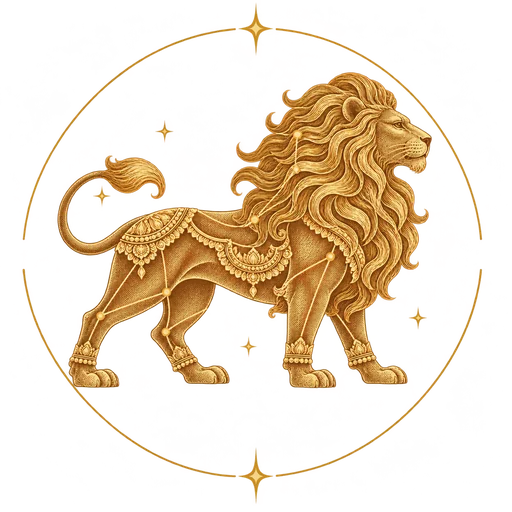
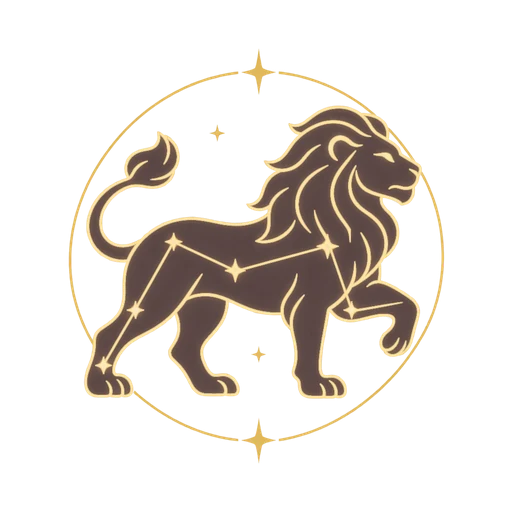
Make the twelve rashi pictures one matching set
Simha, Makara, Kumbha and Meena were gold carvings beside eight dark figures,
and Kanya's ring was an oval. All five come from a new set of dark figures.
build_assets.py adds their glow and gives all twelve the same round, centred
ring, so the website and the PDF covers match.

diff --git a/design/tools/build_assets.py b/design/tools/build_assets.py
@@ -6,7 +6,7 @@ Needs Pillow and numpy. The originals are never modified.
 from pathlib import Path
 
 import numpy as np
-from PIL import Image, ImageDraw
+from PIL import Image, ImageDraw, ImageFilter
 
 ROOT = Path(__file__).resolve().parents[1]
 SRC, WEB = ROOT / "assets" / "source", ROOT / "assets" / "web"
@@ -18,15 +18,35 @@ RASHI = {
     "02-vrishabha": "01_first_set/03_vrishabha_taurus.png",
     "03-mithuna": "01_first_set/04_mithuna_gemini.png",
     "04-kataka": "01_first_set/05_karka_cancer.png",
-    "05-simha": "03_report_set/rashi-05-simha.png",
-    "06-kanya": "01_first_set/06_kanya_virgo.png",
+    "05-simha": "05_uniform_set/rashi-05-simha.png",
+    "06-kanya": "05_uniform_set/rashi-06-kanya.png",
     "07-tula": "01_first_set/07_tula_libra.png",
     "08-vrischika": "01_first_set/08_vrischika_scorpio.png",
     "09-dhanu": "01_first_set/09_dhanu_sagittarius.png",
-    "10-makara": "04_remade_set/rashi-10-makara.png",
-    "11-kumbha": "04_remade_set/rashi-11-kumbha.png",
-    "12-meena": "04_remade_set/rashi-12-meena.png",
+    "10-makara": "05_uniform_set/rashi-10-makara.png",
+    "11-kumbha": "05_uniform_set/rashi-11-kumbha.png",
+    "12-meena": "05_uniform_set/rashi-12-meena.png",
 }
+
+# Each picture's thin gold ring, as fractions of the picture: centre x, centre y, half width, half
+# height. Measured on the originals (the stars on the ring give its top and bottom). The rings were
+# drawn at different sizes, off centre and up to 7% oval, so a row of signs looked uneven.
+RINGS = {
+    "01-mesha": (0.4990, 0.4722, 0.3504, 0.3579),
+    "02-vrishabha": (0.4951, 0.4731, 0.3689, 0.3599),
+    "03-mithuna": (0.4980, 0.4863, 0.3500, 0.3711),
+    "04-kataka": (0.4951, 0.4805, 0.3854, 0.3955),
+    "05-simha": (0.4941, 0.4995, 0.3537, 0.3530),
+    "06-kanya": (0.4893, 0.5039, 0.3360, 0.3477),
+    "07-tula": (0.4941, 0.4829, 0.3526, 0.3687),
+    "08-vrischika": (0.4902, 0.4839, 0.3521, 0.3765),
+    "09-dhanu": (0.4922, 0.4868, 0.3676, 0.3784),
+    "10-makara": (0.4941, 0.5005, 0.3332, 0.3394),
+    "11-kumbha": (0.4922, 0.5068, 0.3616, 0.3730),
+    "12-meena": (0.4951, 0.4897, 0.3287, 0.3481),
+}
+RASHI_SIZE = 512
+RING_RADIUS = 184  # on the 512 x 512 picture: the ring and its stars fit, with a margin
 
 # Panels inside the composite image, as (left, top, right, bottom), inside the white divider lines.
 COMPOSITE = "02_remaining_set/07_composite_all_remaining_visuals.png"
@@ -51,11 +71,70 @@ def hero():
     )
 
 
+def blurred(mask, sigma):
+    """A 0 to 1 mask, softened."""
+    im = Image.fromarray((np.clip(mask, 0, 1) * 255).astype(np.uint8))
+    return np.asarray(im.filter(ImageFilter.GaussianBlur(sigma))).astype(np.float32) / 255
+
+
+def glow(im):
+    """Light a flat picture of the fifth set like the first set: pale gold lines that glow inside
+    the dark figure, white-hot stars at its joints, and a paler ring."""
+    px = np.asarray(im).astype(np.float32)
+    rgb, alpha = px[..., :3], px[..., 3] / 255
+    lum = rgb @ np.array([0.299, 0.587, 0.114], dtype=np.float32)
+    gold = np.clip((lum - 105) / 60, 0, 1) * alpha
+
+    # The figure: its dark fill, without hairlines, grown to take in the lines drawn on it.
+    dark = Image.fromarray((((lum < 105) & (alpha > 0.8)) * 255).astype(np.uint8))
+    fill = dark.filter(ImageFilter.MinFilter(3)).filter(ImageFilter.MaxFilter(13))
+    figure = blurred(np.asarray(fill) / 255, 1.5) * (alpha > 0)
+
+    # Lines on the figure: a touch wider and paler, with amber light around them.
+    wide = Image.fromarray((gold * 255).astype(np.uint8)).filter(ImageFilter.MaxFilter(3))
+    line = np.maximum(gold, 0.75 * np.asarray(wide) / 255 * figure)
+    light = figure * np.clip(0.75 * blurred(gold, 5) + 0.55 * blurred(gold, 14), 0, 1)
+    # Stars at the joints are the only gold thicker than a line.
+    core = Image.fromarray((gold * figure * 255).astype(np.uint8)).filter(ImageFilter.MinFilter(7))
+    core = (np.asarray(core) > 90).astype(np.float32)
+    hot = figure * np.clip(1.6 * blurred(core, 3.5), 0, 1)
+    halo = figure * np.clip(3.2 * blurred(core, 13), 0, 1)
+
+    def screen(base, colour, amount):
+        add = np.array(colour, dtype=np.float32) * amount[..., None]
+        return 255 - (255 - base) * (255 - add) / 255
+
+    def mix(base, colour, amount):
+        return base + (np.array(colour, dtype=np.float32) - base) * amount[..., None]
+
+    out = screen(rgb, (214, 150, 72), np.clip(light * 0.62 + halo * 0.55, 0, 1))
+    out = mix(out, (255, 226, 160), line * figure * 0.9)
+    out = mix(out, (255, 250, 232), hot)
+    out = mix(out, (236, 208, 146), gold * (1 - figure) * 0.6)
+    return Image.fromarray(
+        np.dstack([np.clip(out, 0, 255), alpha * 255]).round().astype(np.uint8), "RGBA"
+    )
+
+
 def rashi():
+    """The twelve signs, scaled and centred so every ring is the same circle."""
     for name, src in RASHI.items():
         im = Image.open(SRC / src).convert("RGBA")
-        im = im.resize((512, 512), Image.LANCZOS)
-        im.save(WEB / f"rashi-{name}.webp", quality=88, method=6)
+        if src.startswith("05_uniform_set/"):
+            im = glow(im)
+        cx, cy, rx, ry = RINGS[name]
+        half = RASHI_SIZE / 2
+        # The part of the original that fills the picture. It can reach past the original's edge,
+        # where the new pixels are transparent.
+        w, h = im.width * rx * half / RING_RADIUS, im.height * ry * half / RING_RADIUS
+        box = (im.width * cx - w, im.height * cy - h, im.width * cx + w, im.height * cy + h)
+        pad = im.width // 2
+        canvas = Image.new("RGBA", (im.width + 2 * pad, im.height + 2 * pad))
+        canvas.paste(im, (pad, pad))
+        out = canvas.resize(
+            (RASHI_SIZE, RASHI_SIZE), Image.LANCZOS, box=tuple(edge + pad for edge in box)
+        )
+        out.save(WEB / f"rashi-{name}.webp", quality=88, method=6)
 
 
 def cards():

diff --git a/design/README.md b/design/README.md
@@ -33,7 +33,7 @@ The logo story, for an About page: the two rings are great circles of the sky. W
 | File | Used for | Made from |
 |---|---|---|
 | `hero-sky.jpg` (1672 x 941) | Home hero background, mobile home, share preview | `01_first_set/01_hero_night_sky.png` |
-| `rashi-NN-name.webp` (512 x 512, transparent) | Rashi row on the home page, lagna and rashi cards in results, the PDF report | The standalone rashi images in the sets |
+| `rashi-NN-name.webp` (512 x 512, transparent) | Rashi row on the home page, lagna and rashi cards in results, the PDF report | The standalone rashi images in the sets, by `build_assets.py`: every ring is the same circle, and the fifth set gets its glow |
 | `chapters/<name>.webp` (480 x 320, transparent) | The picture beside each AI reading chapter | `03_report_set` and `04_remade_set`, `chapter-*.png`, by `tools/build_report_art.py` |
 | `card-hadahan.jpg` (539 x 340) | Hadahan tool card on the home page | Cropped from the composite image |
 | `card-porondam.jpg` (661 x 376) | Porondam tool card on the home page | Cropped from the composite image |
@@ -51,7 +51,8 @@ The PDF report's own pictures are in `backend/app/reports/art/`, made by `tools/
 - **Eight pictures of the third set were made again** (`source/04_remade_set/`): they were soft, cut off, or had a lion painted into the chart cover. The scripts use the newer one. A few chapter pictures of the third set were enlarged from a grouped sheet; they are sharp at the sizes used.
 - **Makara is drawn as the Western sea-goat.** In Sri Lankan tradition the makara is a crocodile-like creature: for the astrologer to say.
 - **The two card pictures and the moon are low resolution.** They exist only as panels inside `02_remaining_set/07_composite_all_remaining_visuals.png`, so they were cropped from it. They are sharp at normal size but soft on high density screens. Standalone versions at 1200 x 800 (cards) and 1000 x 1000 (moon) would replace them.
-- **Kumbha, Makara and Meena** now come from the fourth set, to match the others. Their earlier versions stay in `source/`.
+- **Simha, Kanya, Makara, Kumbha and Meena** come from the fifth set (`source/05_uniform_set/`), made as dark figures like the other seven: four of them were gold carvings, and Kanya's ring was an oval. They arrived flat, so `build_assets.py` adds the glow. Their earlier versions stay in `source/`.
+- **Mesha's ring is faint and broken** in the original, so it looks lighter than the others on the light theme.
 - The two Kumbha and Meena pair images in `source/` are not used yet.
 
 ## Rebuilding

diff --git a/docs/22-report-images.md b/docs/22-report-images.md
@@ -73,6 +73,8 @@ One per chapter, at the top right. 1200 x 800, transparent. They replace the sma
 |---|---|---|
 | `rashi-10-makara.png`, `rashi-11-kumbha.png`, `rashi-12-meena.png` | 1024 x 1024, transparent | These three have no gold ring and use teal, so they don't match the other eight. Same composition as the scorpion reference: the sea-goat, a figure pouring water from an urn, two fish circling |
 
+These three and Simha arrived as gold carvings, which did not match the dark figures of the other eight signs. All four, and Kanya (its ring was an oval), were made again as dark figures on 2026-11-23 (`design/assets/source/05_uniform_set/`). `design/tools/build_assets.py` adds their glow and gives all twelve the same ring.
+
 ## What to check before sending
 
 - The gold is a warm gold, not yellow or orange.
